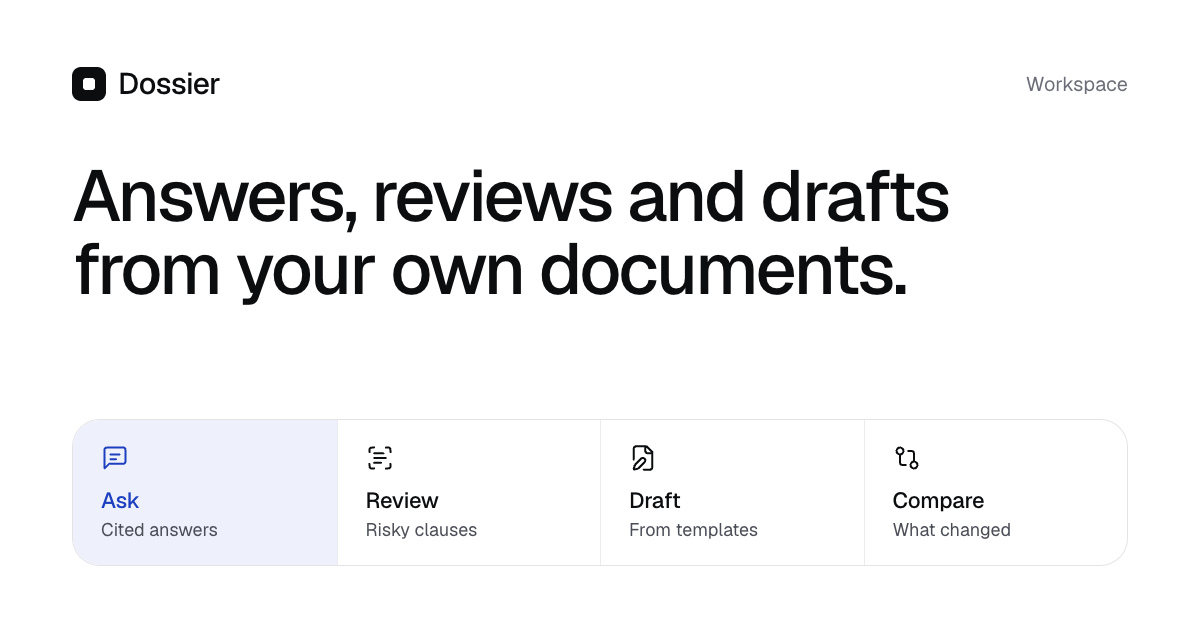
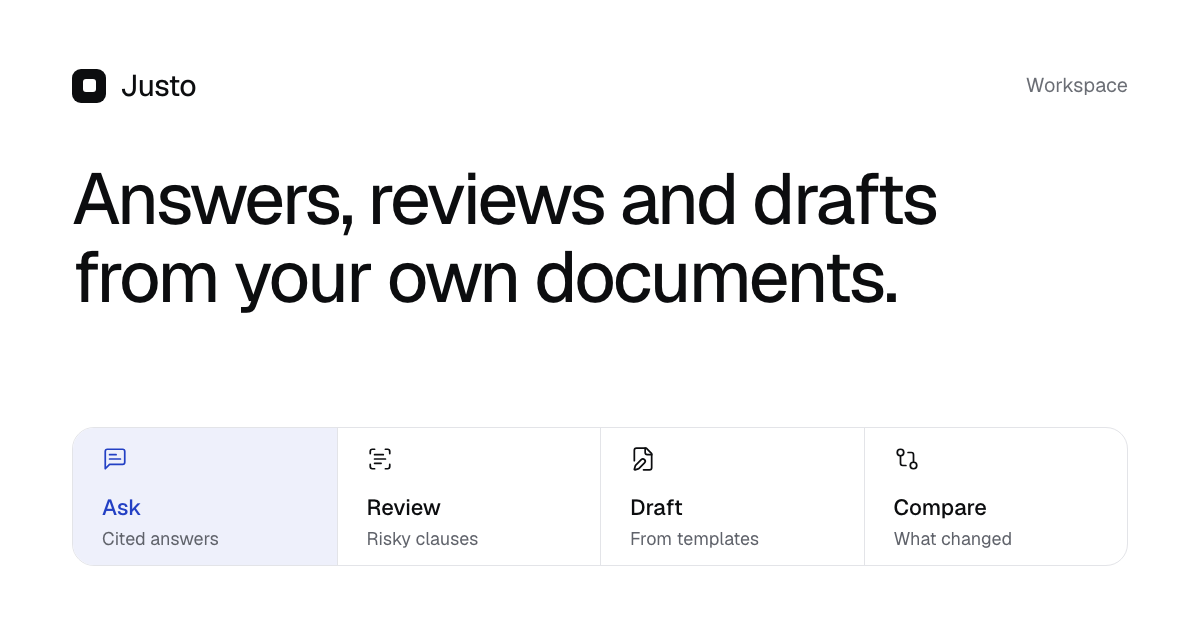
feat: rename Dossier to Justo across the application, update URLs and metadata

diff --git a/apps/website/app/lib/i18n/messages.ts b/apps/website/app/lib/i18n/messages.ts
@@ -18,20 +18,20 @@ export const messages = {
 	'footer.terms': 'Terms',
 	'footer.security': 'Security',
 	'footer.contact': 'Contact',
-	'footer.company': 'Dossier Technologies Ltd. · Accra, Ghana',
+	'footer.company': 'Justo Technologies Ltd. · Accra, Ghana',
 
 	'notFound.title': 'Page not found',
 	'notFound.message': 'Sorry, we couldn’t find the page you’re looking for.',
 	'notFound.cta': 'Go back home',
 
-	'home.meta.title': 'Dossier · Your company’s documents, now answering back',
+	'home.meta.title': 'Justo · Your company’s documents, now answering back',
 	'home.meta.description':
 		'Cited answers, contract review and drafting, grounded in your own company documents.',
 	'home.hero.badge': 'Early access',
 	'home.hero.announcement': 'Now onboarding companies in Ghana and Liberia',
 	'home.hero.title': 'Your company’s documents, finally answering back.',
 	'home.hero.body':
-		'Dossier reads your contracts, policies and templates, then answers questions, reviews agreements and drafts new ones from what your company has already approved. Every answer is cited.',
+		'Justo reads your contracts, policies and templates, then answers questions, reviews agreements and drafts new ones from what your company has already approved. Every answer is cited.',
 	'home.hero.secondaryCta': 'See how it works',
 
 	'home.demo.label': 'Product demo',
@@ -53,7 +53,7 @@ export const messages = {
 
 	'home.features.title': 'Four jobs, one source of truth.',
 	'home.features.body':
-		'Dossier doesn’t make up answers. It looks up your documents first and then reasons over the relevant clauses, so its output matches how your company already works.',
+		'Justo doesn’t make up answers. It looks up your documents first and then reasons over the relevant clauses, so its output matches how your company already works.',
 	'home.features.try': 'Try it in the product',
 	'home.features.askTag': 'Ask',
 	'home.features.askTitle': 'Company Q&A',
@@ -85,7 +85,7 @@ export const messages = {
 	'home.steps.uploadTitle': 'Upload your documents',
 	'home.steps.uploadBody':
 		'PDF, DOCX and scans. Constitutions, handbooks, templates, signed agreements.',
-	'home.steps.indexTitle': 'Dossier indexes them by clause',
+	'home.steps.indexTitle': 'Justo indexes them by clause',
 	'home.steps.indexBody':
 		'Each document is split into its sections and clauses, with your access rules applied, so answers point to the exact passage.',
 	'home.steps.workTitle': 'Ask, review, draft',
@@ -99,7 +99,7 @@ export const messages = {
 		'People only get answers from the documents they’re allowed to open.',
 	'home.security.citedTitle': 'Cited, every time',
 	'home.security.citedBody':
-		'Each claim links to its source clause. If the documents don’t cover something, Dossier tells you.',
+		'Each claim links to its source clause. If the documents don’t cover something, Justo tells you.',
 	'home.security.dataTitle': 'Your data stays yours',
 	'home.security.dataBody':
 		'Documents are isolated per organization and never used to train models.',
@@ -112,7 +112,7 @@ export const messages = {
 	'home.access.talkFirst': 'Prefer to talk first?',
 	'home.access.builtIn': 'Built in Accra.',
 
-	'pricing.meta.title': 'Pricing | Dossier',
+	'pricing.meta.title': 'Pricing | Justo',
 	'pricing.meta.description':
 		'Start free. Pay when your team grows. Every plan includes cited answers, contract review and drafting.',
 	'pricing.hero.title': 'Start free. Pay when your team grows.',
@@ -132,7 +132,7 @@ export const messages = {
 	'pricing.plans.everythingInFree': 'Everything in Free, plus',
 	'pricing.plans.everythingInTeam': 'Everything in Team, plus',
 	'pricing.plans.everythingInBusiness': 'Everything in Business, plus',
-	'pricing.plans.freeBlurb': 'For trying Dossier with a small team.',
+	'pricing.plans.freeBlurb': 'For trying Justo with a small team.',
 	'pricing.plans.teamBlurb': 'For growing teams working from shared documents.',
 	'pricing.plans.businessBlurb':
 		'For legal, HR and ops teams that need control.',

diff --git a/apps/website/app/lib/constants.ts b/apps/website/app/lib/constants.ts
@@ -1,12 +1,12 @@
 export const NODE_ENV = process.env.NODE_ENV
-export const APP_NAME = 'dossier'
-/** Temporary Fly.io hosts until the dossier domain is secured. */
+export const APP_NAME = 'justo'
+/** Temporary Fly.io hosts until the Justo domain is secured. */
 export const APP_DOMAIN =
-	NODE_ENV === 'production' ? 'dossier.fly.dev' : 'localhost'
+	NODE_ENV === 'production' ? 'justo.fly.dev' : 'localhost'
 
-export const APP_URL = 'https://dossier-africa.fly.dev'
+export const APP_URL = 'https://justo-africa.fly.dev'
 
-export const CONTACT_EMAIL = 'hello@dossier.africa'
+export const CONTACT_EMAIL = 'hello@justo.africa'
 export const WHATSAPP_NUMBER = '+233 00 000 0000'
 
 export const QUERY_KEYS = {} as const

diff --git a/apps/website/app/lib/use-app-url.ts b/apps/website/app/lib/use-app-url.ts
@@ -2,9 +2,9 @@ import { useRouteLoaderData } from 'react-router'
 import { APP_URL } from './constants'
 import { crossAppUrl, type Utm } from './utm'
 
-export const WEBSITE_UTM_SOURCE = 'dossier_website'
+export const WEBSITE_UTM_SOURCE = 'justo_website'
 
-/** Link builder for the Dossier app that carries the visitor's attribution. */
+/** Link builder for the Justo app that carries the visitor's attribution. */
 export function useAppUrl() {
 	const utm =
 		(useRouteLoaderData('root') as { utm?: Utm } | undefined)?.utm ?? {}

diff --git a/apps/app/app/lib/constants.ts b/apps/app/app/lib/constants.ts
@@ -1,8 +1,8 @@
 export const NODE_ENV = process.env.NODE_ENV
-export const APP_NAME = 'Dossier'
-/** Temporary Fly.io hosts until the dossier domain is secured. */
-export const WEBSITE_URL = 'https://dossier.fly.dev'
-export const APP_URL = 'https://dossier-africa.fly.dev'
+export const APP_NAME = 'Justo'
+/** Temporary Fly.io hosts until the justo domain is secured. */
+export const WEBSITE_URL = 'https://justo.fly.dev'
+export const APP_URL = 'https://justo-africa.fly.dev'
 
 export const QUERY_KEYS = {
 	GROUPS: 'groups',

diff --git a/apps/website/app/root.tsx b/apps/website/app/root.tsx
@@ -85,7 +85,7 @@ export function Layout({ children }: { children: React.ReactNode }) {
 					media="(prefers-color-scheme: dark)"
 				/>
 				<meta name="apple-mobile-web-app-capable" content="yes" />
-				<meta name="apple-mobile-web-app-title" content="Dossier" />
+				<meta name="apple-mobile-web-app-title" content="Justo" />
 				<meta name="apple-mobile-web-app-status-bar-style" content="default" />
 				<Meta />
 				<Links />

diff --git a/apps/website/app/lib/utm.ts b/apps/website/app/lib/utm.ts
@@ -18,7 +18,7 @@ export function readUtm(params: URLSearchParams): Utm {
 }
 
 /**
- * Builds a link into the other Dossier app. The campaign the visitor arrived
+ * Builds a link into the other Justo app. The campaign the visitor arrived
  * with (source, medium, campaign, term) passes through; anything missing is
  * filled in so every hop between apps is attributable. `utm_content` always
  * names the link that was clicked.

diff --git a/apps/website/app/modules/home/product-demo.tsx b/apps/website/app/modules/home/product-demo.tsx
@@ -53,7 +53,7 @@ export function ProductDemo({ tab, onTabChange }: Props) {
 								<iframe
 									src={appUrl(item.demoPath, `home_demo_${item.value}`)}
 									loading="lazy"
-									title={`Dossier: ${t(item.label)}`}
+									title={`Justo: ${t(item.label)}`}
 									className="block size-full border-0"
 								/>
 							</div>

diff --git a/apps/website/app/lib/i18n/translate.server.ts b/apps/website/app/lib/i18n/translate.server.ts
@@ -4,7 +4,7 @@ import { environmentVariables } from '~/lib/actions/env.server'
 
 const ENDPOINT = 'https://translation.googleapis.com/language/translate/v2'
 const MAX_SEGMENTS_PER_REQUEST = 128
-const PROTECTED_TERMS = ['Dossier']
+const PROTECTED_TERMS = ['Justo']
 
 const cache = new Map<Language, Promise<Messages>>()
 

diff --git a/apps/website/app/components/layout/logo.tsx b/apps/website/app/components/layout/logo.tsx
@@ -9,7 +9,7 @@ export function Logo() {
 			<span className="bg-foreground grid size-[22px] place-items-center rounded-md">
 				<span className="bg-background size-2 rounded-[2px]" />
 			</span>
-			Dossier
+			Justo
 		</Link>
 	)
 }
